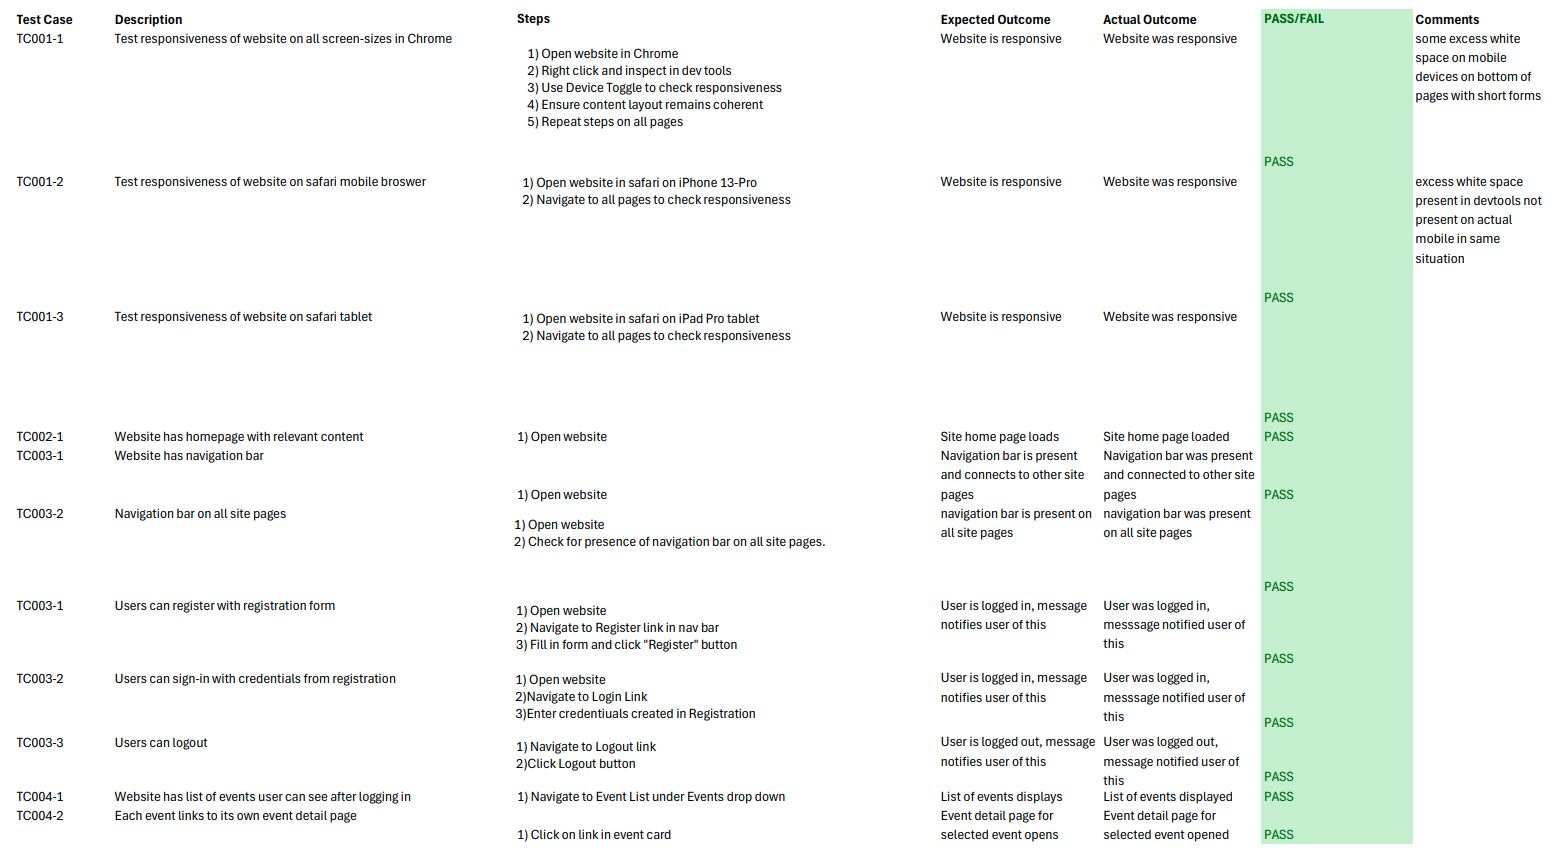
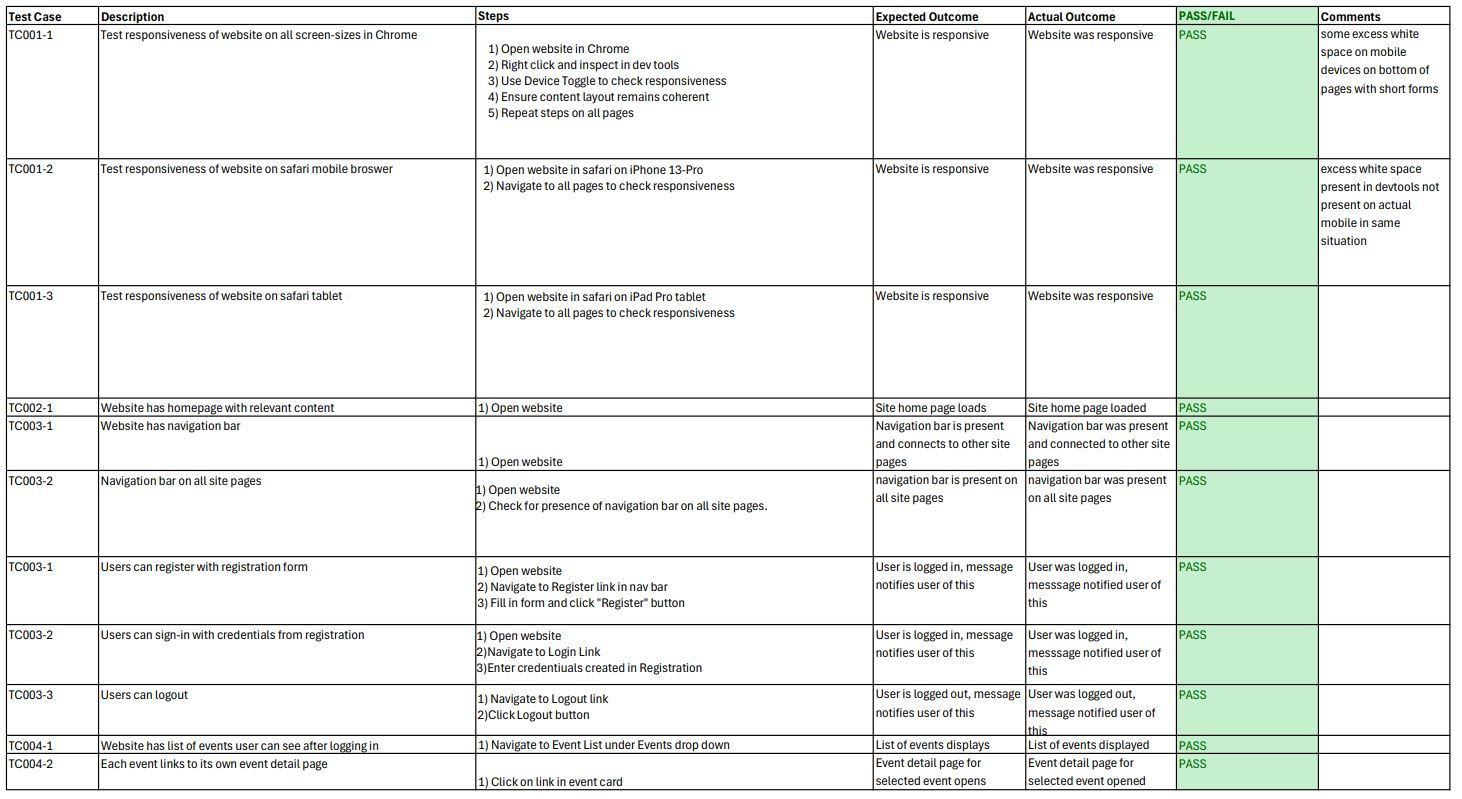
details of manual unit testing

diff --git a/TESTING.md b/TESTING.md
@@ -11,7 +11,7 @@ HTML code stripped of Django template tags was accessed by viewing the page sour
 Unremedied errors consisted of the behaviour of Django template elements which I was unable to change.
 
 ### Results for HTML URI Testing:
-<details><summary>click to expand</summary>
+<details><summary>Click to expand</summary>
 
 Home page:
 
@@ -69,7 +69,7 @@ There were 26 warnings associated with variable names (const and let ) and their
 
 ## Python Validation
 
-Python was validated using the ![CI Python Linter](https://pep8ci.herokuapp.com/)
+Python was validated using the ![CI Python Linter](pep8ci.herokuapp.com)
 
 Only files in which I wrote my own code were validated. The rest of the python code in the project was part of thje Django installation package.
 
@@ -99,10 +99,39 @@ From the `events` app:
 | `forms.py` |pass |
 | `views.py` | pass w/noqa*|
 
-    *due to limitations of the linter line 170 of views is split over two lines of display inside the linter within one line of code; meaning a trailing white space error (W291) persists in the linter where no trailing white space is present and despite #noqa.
+    *due to limitations of the linter line 170 of event/views.py is split over two lines of display inside the linter within one line of code; meaning a trailing white space error (W291) persists in the linter where no trailing white space is present and despite #noqa.
 
 From the `calm_cadence` project directory:
 
 | File | Grade |
 | -----| ------|
 | `urls.py` | pass |
+
+## Site Testing
+
+### User-Acceptance-Criteria (UAC) Derived Manual Unit Testing
+
+Test cases were grouped into logical units of site functionality for this task:
+
+- TC001 Site responsiveness.
+- TC002 Site purpose on landing (home) page.
+- TC003 Navigation and authentication.
+- TC004 Viewing events.
+- TC005 User create, edit, delete own events.
+- TC006 Attending and cancelling attendance.
+- TC007 Users can see own attending/attended events.
+- TC008 Users can see own organising/organised events.
+- TC009 User create, edit and delete own comments.
+- TC010 Site admin functionality and admin role-specific access.
+
+![Unit Testing 1](https://github.com/Libbu/ci-capstone-project/blob/main/media/unittesting1.JPG)
+
+![Unit Testing 2](https://github.com/Libbu/ci-capstone-project/blob/main/media/unittesting2.JPG)
+
+![Unit Testing 3](https://github.com/Libbu/ci-capstone-project/blob/main/media/unittesting3.JPG)
+
+![Unit Testing 4](https://github.com/Libbu/ci-capstone-project/blob/main/media/unittesting4.JPG)
+
+
+
+
